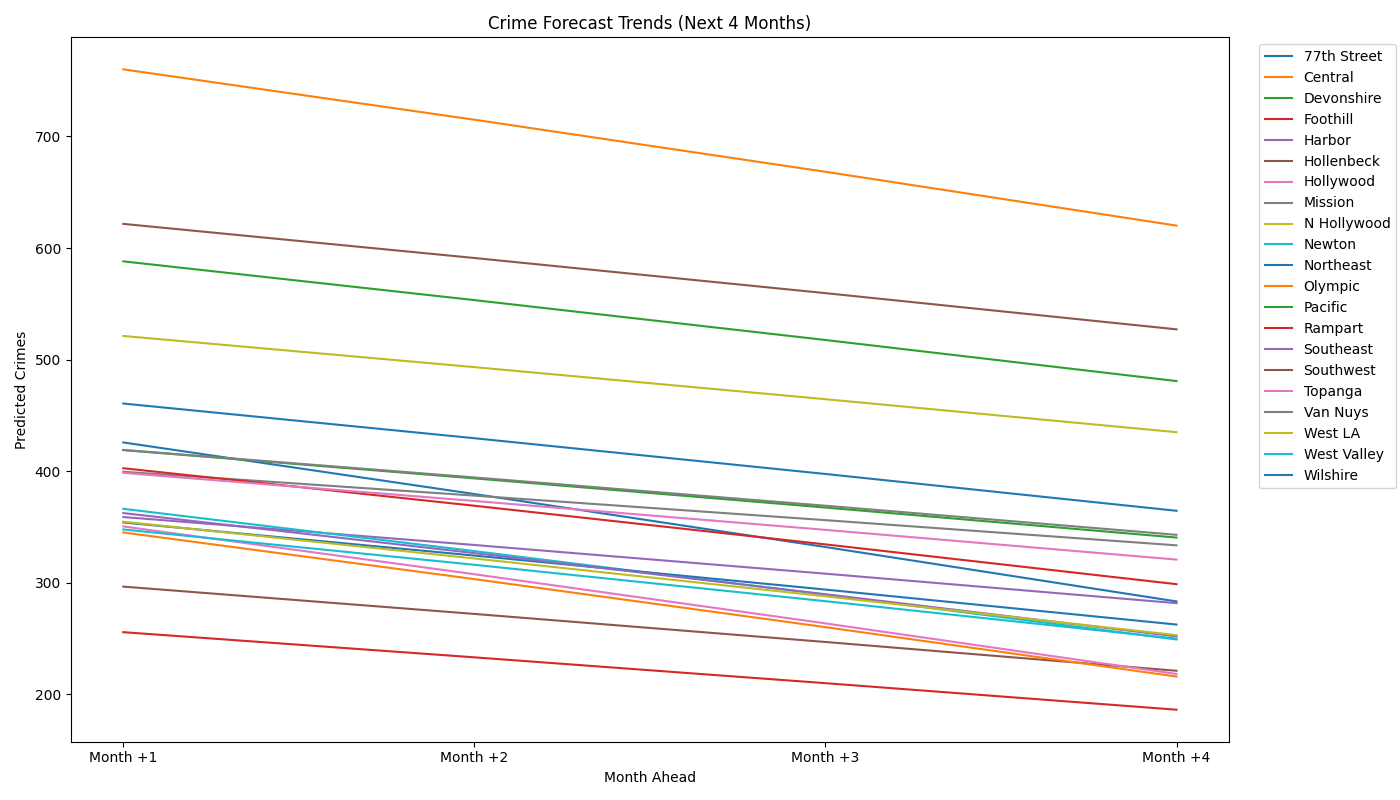
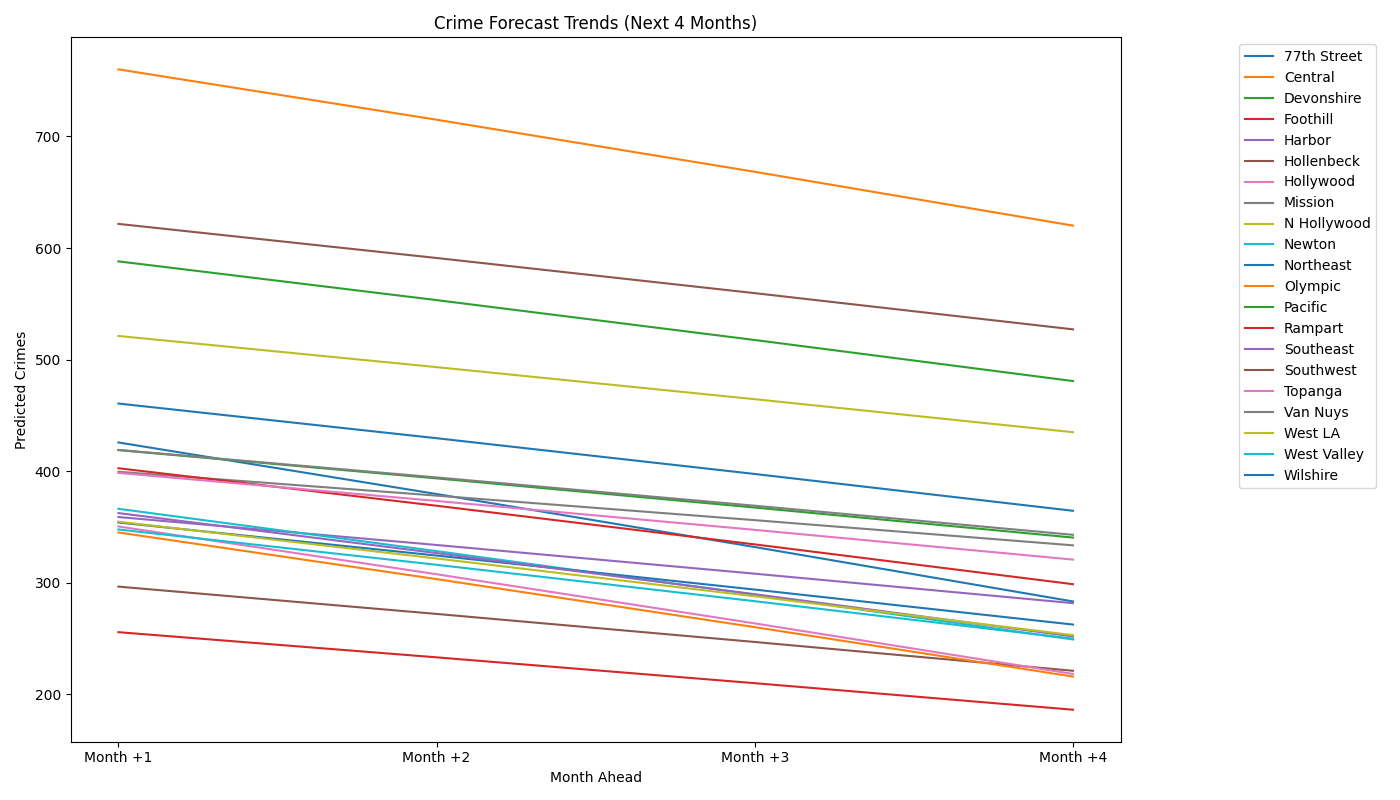
add predictive model for time and add more information to hotspots

diff --git a/predict_hotspots.py b/predict_hotspots.py
@@ -3,47 +3,49 @@ import matplotlib.pyplot as plt
 import seaborn as sns
 import numpy as np
 
-#Getting the data
+# Load Data
 df = pd.read_csv("Crime_Data_Cleaned.csv")
 df['DATE OCC'] = pd.to_datetime(df['DATE OCC'], errors='coerce')
 df['YearMonth'] = df['DATE OCC'].dt.to_period('M')
 
-#Monthly crime counts by area
+# Monthly crime counts by area
 monthly_crime = df.groupby(['YearMonth', 'AREA NAME']).size().reset_index(name='Crime Count')
 pivot_df = monthly_crime.pivot(index='YearMonth', columns='AREA NAME', values='Crime Count').fillna(0)
 
-#Filter out unreliable months
-#The most recent months seem to have very little data which is making it predict zero for me
+# Filter out unreliable months
 monthly_totals = pivot_df.sum(axis=1)
 reliable_months = monthly_totals[monthly_totals > 6000].index
 pivot_df = pivot_df.loc[reliable_months]
 
-#Prepare for forecasting
+# Setup
 x_vals = np.arange(pivot_df.shape[0])
-forecast_next_month = {}
 forecast_all = {}
+forecast_next_month = {}
+change_from_current_month = {}
+change_over_4_months = {}
 
+# Forecasting
 for area in pivot_df.columns:
     y_vals = pivot_df[area].values
     if np.count_nonzero(y_vals) < 4:
         continue
 
-    #Polynomial regression of degree 2 (quadratic) 
-    #possible for linear graph to not be super straight
     coeffs = np.polyfit(x_vals, y_vals, 2)
-
-    #Predict next 4 months
-    future_months = [len(x_vals) + i for i in range(4)]  
+    future_months = [len(x_vals) + i for i in range(4)]
     forecast_values = [max(np.polyval(coeffs, m), 0) for m in future_months]
 
     forecast_all[area] = forecast_values
+    forecast_next_month[area] = forecast_values[0]  # Month +1
 
-    #Store only next month (month +1) for bar chart
-    forecast_next_month[area] = forecast_values[1]
+    # Change for single month prediction
+    change_from_current_month[area] = forecast_values[0] - y_vals[-1]
 
-#Bar Chart: Top 20 forecast for next month
+    # Change over 4 months prediction
+    change_over_4_months[area] = forecast_values[3] - y_vals[-1]
+
+# --- Plot Top Crime Areas Next Month ---
 forecast_series = pd.Series(forecast_next_month).sort_values(ascending=False)
-top_areas = forecast_series.head(20)
+top_areas = forecast_series.head(10)
 
 plt.figure(figsize=(12, 8))
 sns.barplot(y=top_areas.index, x=top_areas.values, hue=top_areas.index, palette='flare', legend=False)
@@ -54,18 +56,36 @@ plt.tight_layout()
 plt.savefig("predicted_hotspots_next_month.png")
 plt.show()
 
-#Line Graph, forecasting trends for next 4 months
-forecast_df = pd.DataFrame(forecast_all).T  # shape: (area, 4 months)
+# --- Biggest Changes: Single Month ---
+change_series = pd.Series(change_from_current_month)
+
+# Sort by absolute change (largest movement up OR down)
+biggest_changes_single_month = change_series.reindex(change_series.abs().sort_values(ascending=False).index).head(5)
+
+print("\nTop 5 areas with biggest overall CHANGE from last month to next month:")
+print(biggest_changes_single_month)
+
+# --- Forecast Trend 4 Months ---
+forecast_df = pd.DataFrame(forecast_all).T
 forecast_df.columns = [f"Month +{i+1}" for i in range(4)]
 
 plt.figure(figsize=(14, 8))
 for area in forecast_df.index:
-    plt.plot(forecast_df.columns, forecast_df.loc[area], label=area)
+    plt.plot(['Month +1', 'Month +2', 'Month +3', 'Month +4'], forecast_df.loc[area][['Month +1', 'Month +2', 'Month +3', 'Month +4']], label=area)
 
 plt.title("Crime Forecast Trends (Next 4 Months)")
 plt.xlabel("Month Ahead")
 plt.ylabel("Predicted Crimes")
-plt.legend(loc='upper right', bbox_to_anchor=(1.15, 1))
+plt.legend(loc='upper right', bbox_to_anchor=(1.25, 1))
 plt.tight_layout()
 plt.savefig("forecast_trend_4months.png")
 plt.show()
+
+#Biggest Changes: Over 4 Months
+change_4m_series = pd.Series(change_over_4_months)
+
+# Sort by absolute change (largest movement up OR down)
+biggest_changes_4_months = change_4m_series.reindex(change_4m_series.abs().sort_values(ascending=False).index).head(5)
+
+print("\nTop 5 areas with biggest overall change from now to 4 months later:")
+print(biggest_changes_4_months)

diff --git a/predict_time.py b/predict_time.py
@@ -1,0 +1,59 @@
+import pandas as pd
+import numpy as np
+from sklearn.preprocessing import LabelEncoder
+from sklearn.tree import DecisionTreeClassifier
+from sklearn.model_selection import train_test_split
+from sklearn.metrics import accuracy_score, classification_report
+import matplotlib.pyplot as plt
+import seaborn as sns
+
+#data
+df = pd.read_csv("Crime_Data_Cleaned.csv")
+
+#Extract hour from TIME OCC
+df['Hour'] = df['TIME OCC'] // 100
+
+#Categorize into time windows
+def categorize_time(hour):
+    if 0 <= hour < 6:
+        return 'Early Morning'
+    elif 6 <= hour < 12:
+        return 'Morning'
+    elif 12 <= hour < 18:
+        return 'Afternoon'
+    else:
+        return 'Evening/Night'
+
+df['Time Category'] = df['Hour'].apply(categorize_time)
+
+# Prepare features and target
+features = df[['AREA NAME', 'Crm Cd Desc']].copy()   # <-- copy() added
+target = df['Time Category']
+
+# Encode categorical features
+le_area = LabelEncoder()
+le_crime = LabelEncoder()
+
+features['Area Encoded'] = le_area.fit_transform(features['AREA NAME'])
+features['Crime Encoded'] = le_crime.fit_transform(features['Crm Cd Desc'])
+X = features[['Area Encoded', 'Crime Encoded']]
+y = target
+
+#Train-test split
+X_train, X_test, y_train, y_test = train_test_split(X, y, test_size=0.2, random_state=42)
+
+model = DecisionTreeClassifier()
+model.fit(X_train, y_train)
+
+#Predictions
+y_pred = model.predict(X_test)
+#Evaluate
+print(f"Accuracy: {accuracy_score(y_test, y_pred):.2f}")
+print(classification_report(y_test, y_pred))
+
+# Confusion Matrix
+conf_matrix = pd.crosstab(y_test, y_pred, rownames=['Actual'], colnames=['Predicted'])
+plt.figure(figsize=(8, 6))
+sns.heatmap(conf_matrix, annot=True, cmap='Blues', fmt='d')
+plt.title('Prediction vs Actual Crime Time')
+plt.show()
